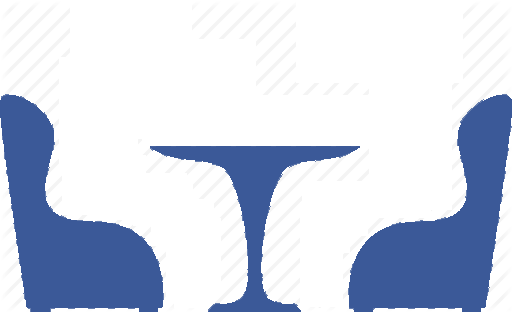
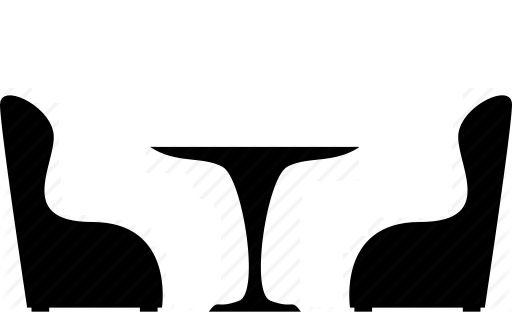
Added Manage Restaurant page

Changed region(s): [[0.6562, 0.2885, 1.0, 1.0], [0.0, 0.2885, 0.3438, 1.0], [0.2812, 0.4615, 0.7188, 1.0]]

diff --git a/RestaurantOrganizationalManager/ROM.Web/Content/CSS/Site.css b/RestaurantOrganizationalManager/ROM.Web/Content/CSS/Site.css
@@ -56,3 +56,36 @@ textarea {
 .statistic {
     color: white;
 }
+
+.table-img {
+    width: 70%;
+    mix-blend-mode: multiply;
+}
+
+.first-statistic {
+    -webkit-animation-duration: 2s;
+    -webkit-animation-delay: 2s;
+    -webkit-animation-iteration-count: 1;
+}
+
+.second-statistic {
+    -webkit-animation-duration: 2s;
+    -webkit-animation-delay: 3s;
+    -webkit-animation-iteration-count: 1;
+}
+
+.third-statistic {
+    -webkit-animation-duration: 2s;
+    -webkit-animation-delay: 4s;
+    -webkit-animation-iteration-count: 1;
+}
+
+.page-title{
+    -webkit-animation-duration: 1s;
+    -webkit-animation-delay: 0.3s;
+    -webkit-animation-iteration-count: 1;
+}
+
+.navigation-animation {
+
+}

diff --git a/RestaurantOrganizationalManager/ROM.Web/Controllers/HomeController.cs b/RestaurantOrganizationalManager/ROM.Web/Controllers/HomeController.cs
@@ -38,7 +38,7 @@ namespace ROM.Web.Controllers
         }
 
         [ChildActionOnly]
-        [OutputCache(Duration = WebConstants.HomePageCacheDuration)]
+        //[OutputCache(Duration = WebConstants.HomePageCacheDuration)]
         public ActionResult Statistic()
         {
             var countOfAllRestaurants = this.homeService.GetAllRestaurants().Count();
